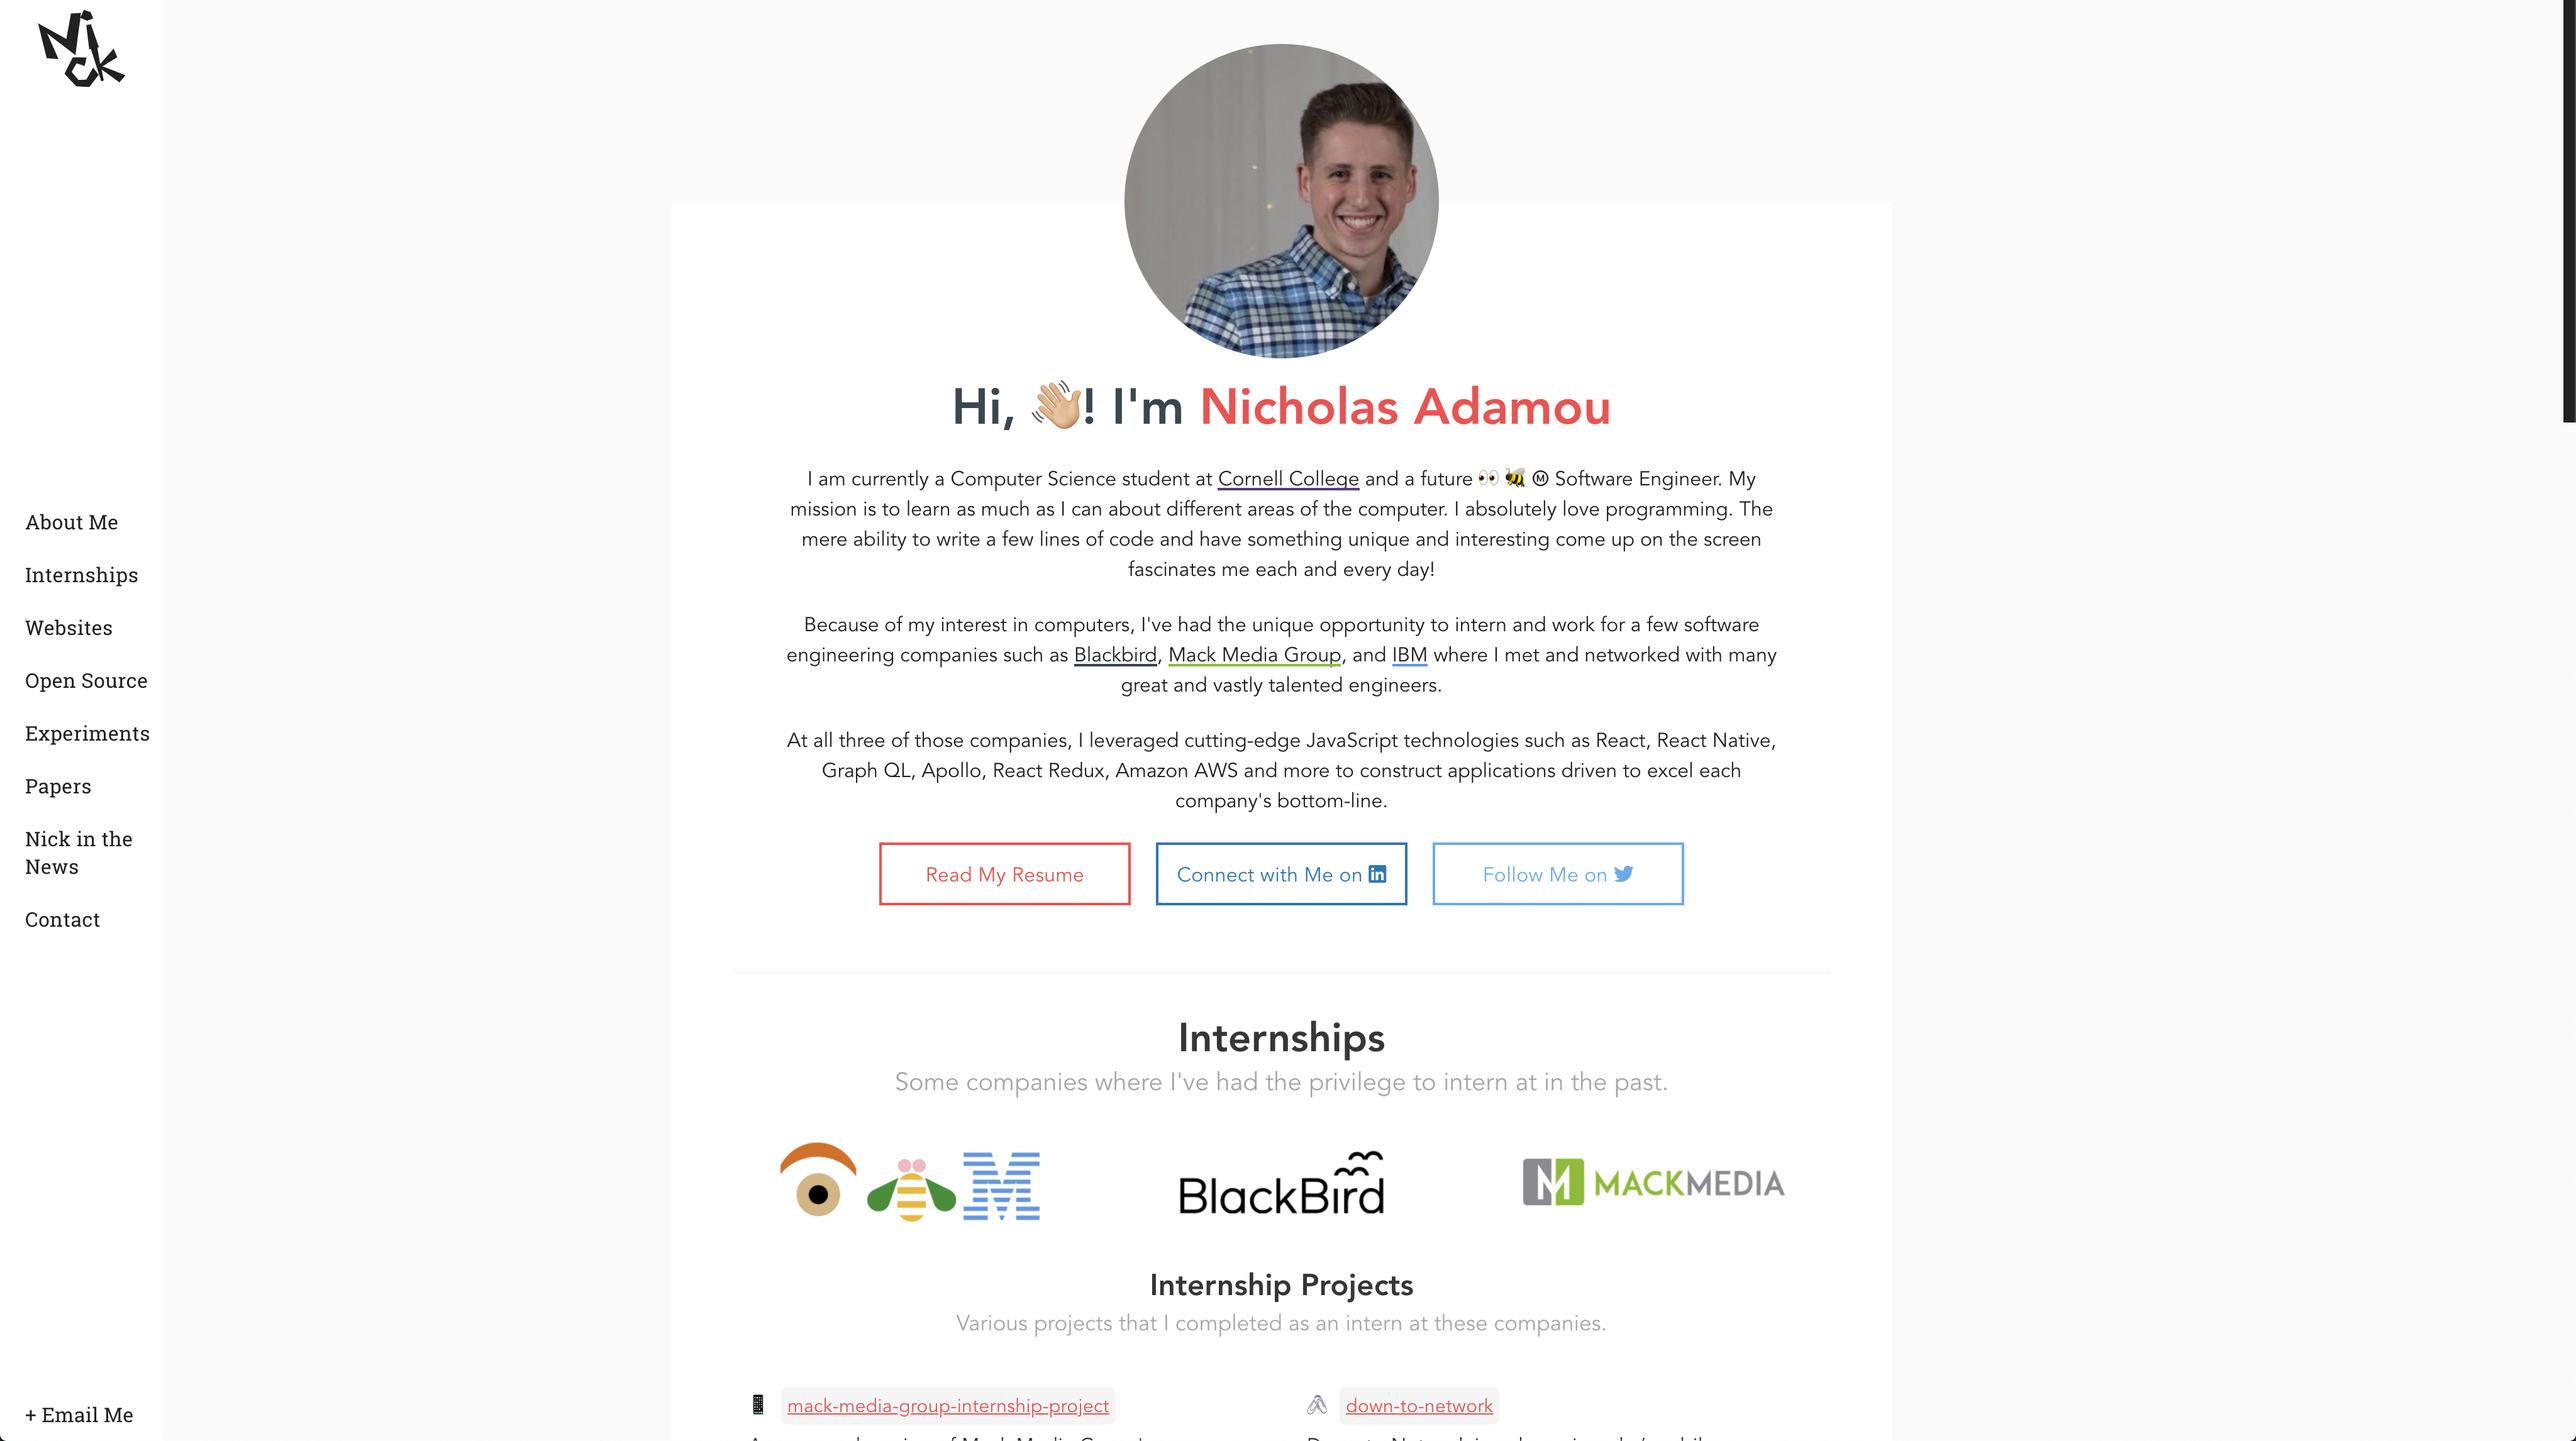
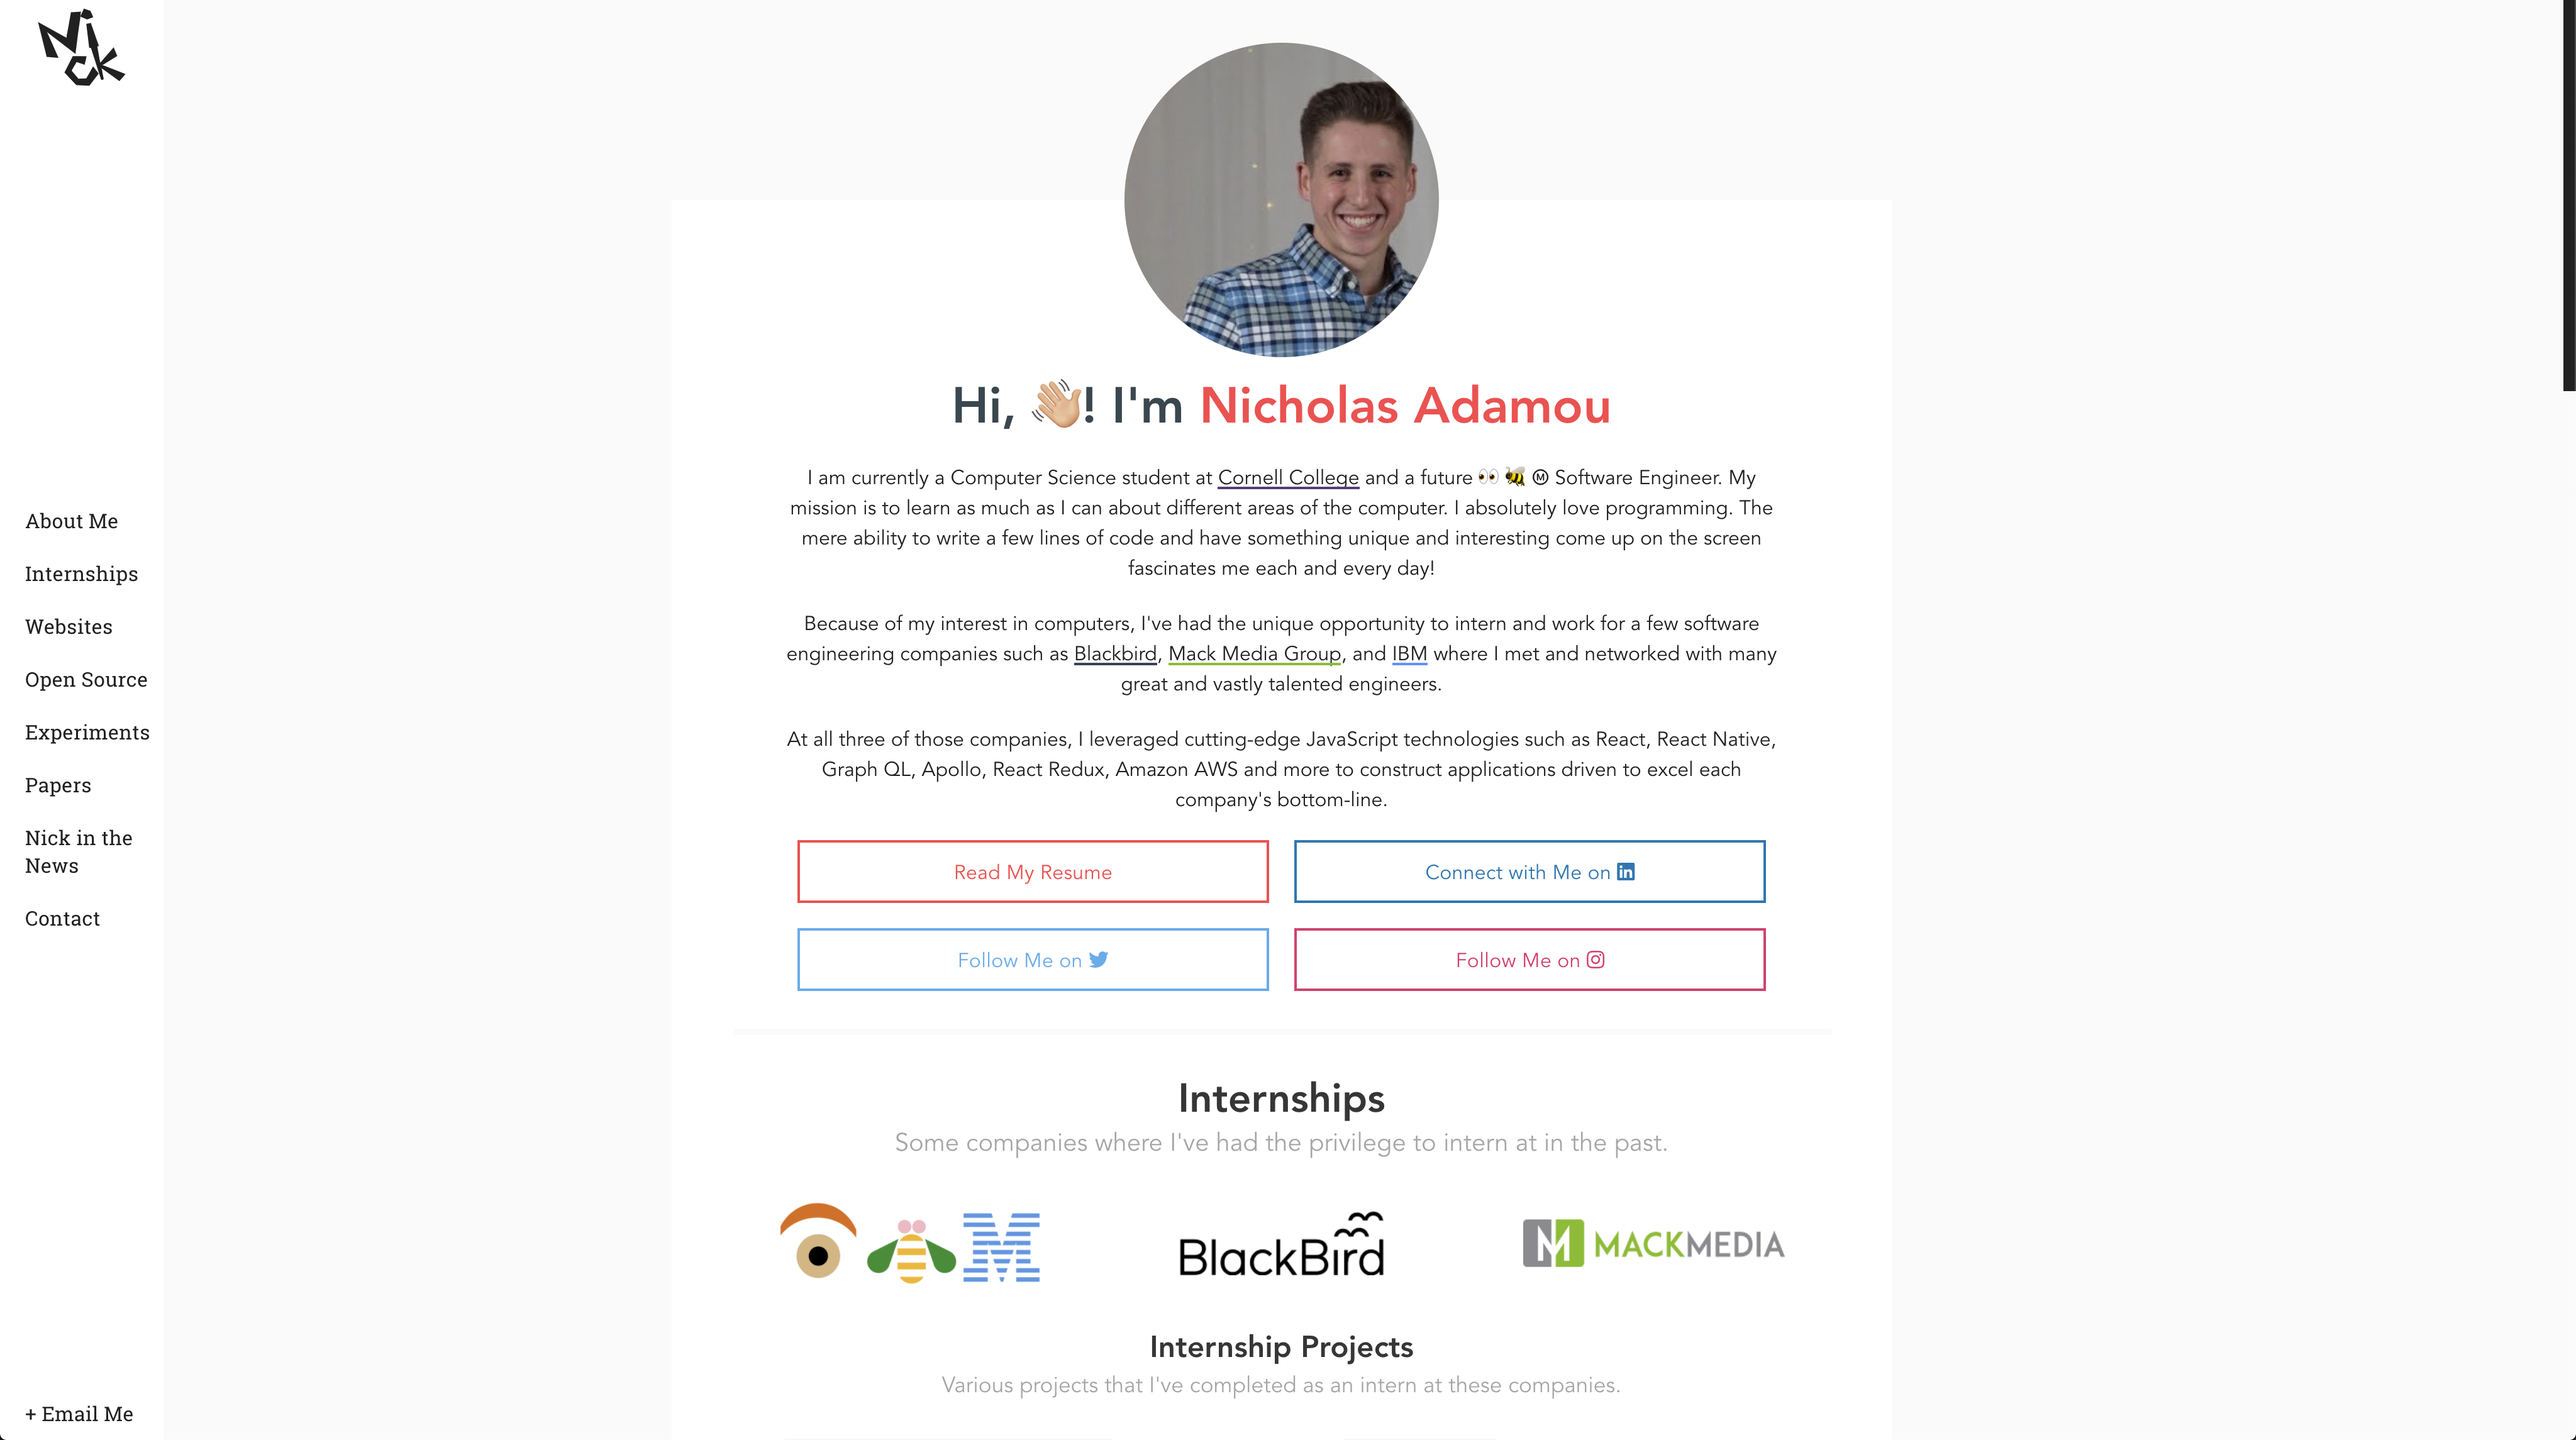
added instagram link

diff --git a/src/sections/AboutMe/index.scss b/src/sections/AboutMe/index.scss
@@ -3,7 +3,7 @@
 #about-me {
   text-align: center;
 
-  padding-bottom: 40px;
+  padding-bottom: 20px;
 
   @include until($iphone-7) {
     width: 100%;
@@ -136,14 +136,23 @@
   }
 
   .btn-wrapper {
-    margin-top: 1.3rem;
+    display: grid;
+    grid-template-columns: 1fr 1fr;
+    grid-gap: 20px;
+    place-items: center;
+
+    margin: 0 100px;
+
+    @include until($iphone-7) {
+      grid-template-columns: 1fr;
+
+      margin: 0 20px;
+    }
 
     .btn {
       display: inline-block;
 
-      margin-right: 20px;
-
-      width: 200px;
+      width: 100%;
       height: 50px;
 
       text-align: center;
@@ -158,14 +167,8 @@
 
       transition: all 150ms ease-in-out;
 
-      &:last-child {
-        margin-right: 0;
-      }
-
-      @include until($iphone-7) {
-        width: 90%;
-
-        margin: 10px auto;
+      @include until($ipad) {
+        width: 100%;
       }
     }
 
@@ -195,6 +198,16 @@
 
       &:hover {
         background-color: var(--linkedin);
+        color: var(--white);
+      }
+    }
+
+    #instagram {
+      border-color: var(--instagram);
+      color: var(--instagram);
+
+      &:hover {
+        background-color: var(--instagram);
         color: var(--white);
       }
     }

diff --git a/src/sections/Footer/Footer.js b/src/sections/Footer/Footer.js
@@ -60,6 +60,18 @@ const Footer = () => (
             <i className="fab fa-twitter" />
           </li>
         </a>
+        <a
+          href="https://instagram.com/nicholasadamou"
+          target="_blank"
+          aria-hidden="true"
+          aria-label="Instagram"
+          title="Instagram"
+          rel="noopener noreferrer"
+        >
+          <li className="instagram">
+            <i className="fab fa-instagram" />
+          </li>
+        </a>
       </ul>
     </div>
 

diff --git a/src/sections/AboutMe/AboutMe.js b/src/sections/AboutMe/AboutMe.js
@@ -106,6 +106,16 @@ const AboutMe = () => (
       >
         Follow Me on <i className="fab fa-twitter" />
       </a>
+      <a
+        className="btn"
+        href="https://www.instagram.com/nicholasadamou/"
+        target="_blank"
+        aria-hidden="true"
+        rel="noopener noreferrer"
+        id="instagram"
+      >
+        Follow Me on <i className="fab fa-instagram" />
+      </a>
     </div>
   </section>
 );

diff --git a/src/sections/Footer/index.scss b/src/sections/Footer/index.scss
@@ -44,6 +44,10 @@ footer {
           color: var(--linkedin);
         }
 
+        &.instagram {
+          color: var(--instagram);
+        }
+
         &:hover {
           -webkit-transform: scale(1.2);
           transform: scale(1.2);

diff --git a/src/sass/base/_variables.scss b/src/sass/base/_variables.scss
@@ -12,6 +12,7 @@
   --codepen: #212121;
   --twitter: #55acee;
   --linkedin: #0077b5;
+  --instagram: #e1306c;
   --cornell: #583d78;
   --blackbird: #3c4156;
   --mack-media-group: #80bd01;

diff --git a/src/sections/Internships/index.scss b/src/sections/Internships/index.scss
@@ -46,7 +46,7 @@
     display: grid;
     grid-template-columns: 1fr 1fr;
 
-    margin: 2rem 1rem 2rem;
+    margin: 1rem 1rem 2rem;
 
     text-align: left;
 
